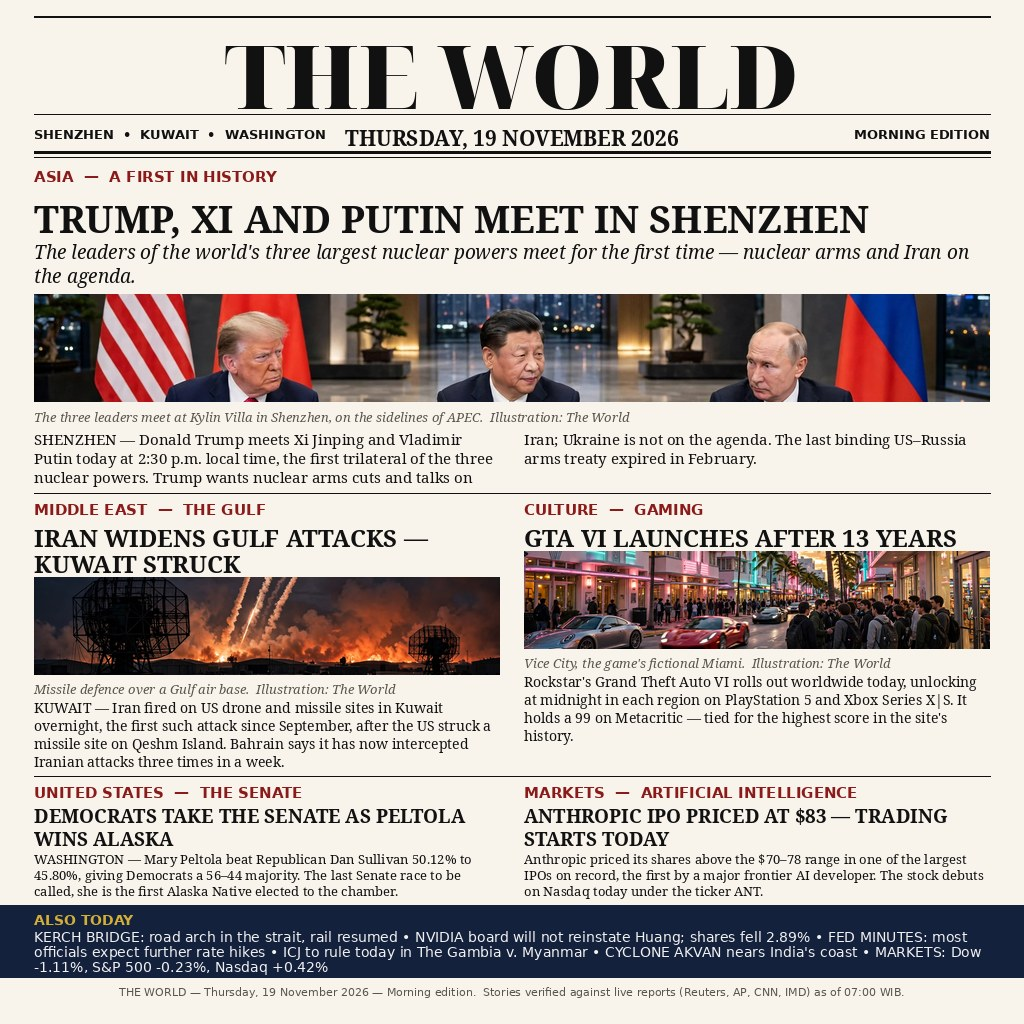
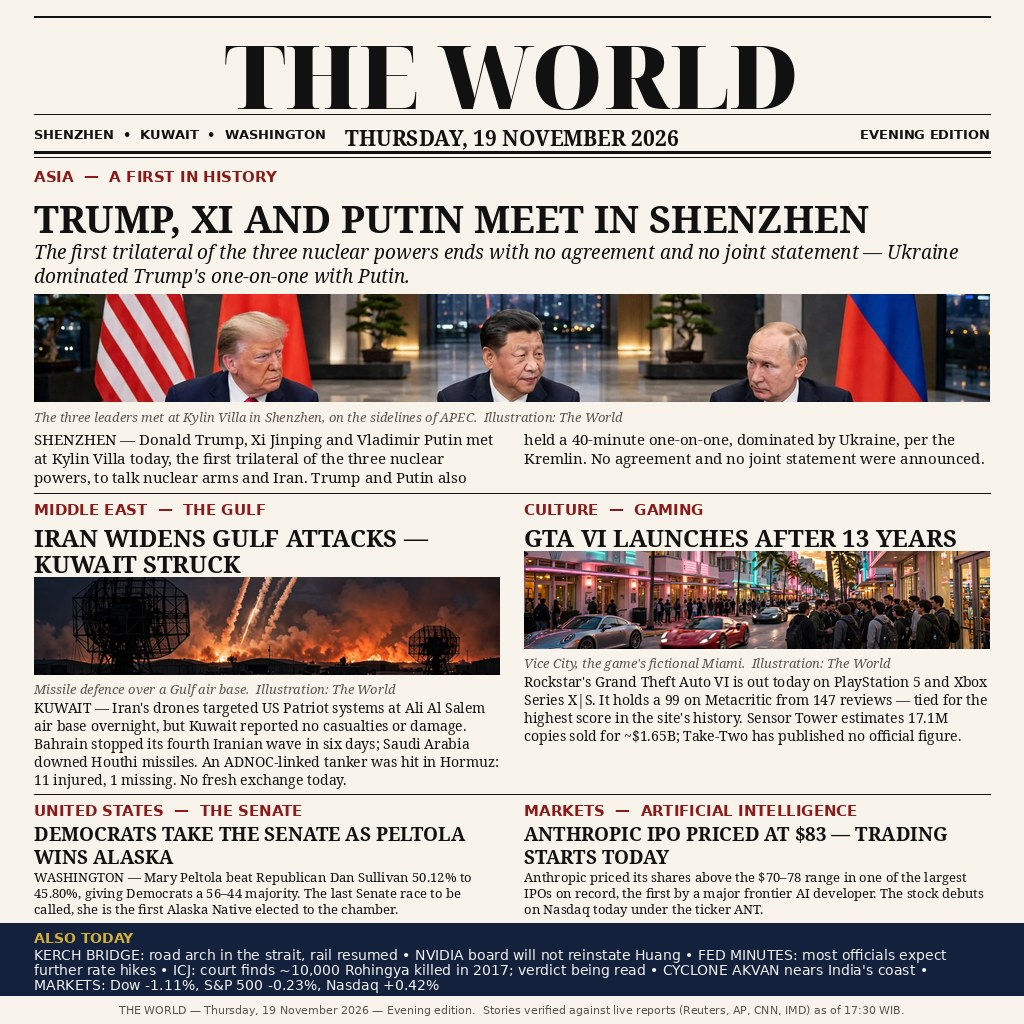
Evening edition: trilateral met, no deal; Gulf repelled; GTA VI out, 99 from 147 reviews; ICJ findings in ticker

diff --git a/main.ts b/main.ts
@@ -11,9 +11,10 @@
 // out garbled. No network is used at run time; everything the program needs
 // ships in this repo.
 //
-// MORNING EDITION: the image was built from news verified by 07:00 WIB on
-// 19 November 2026. A refresh pass with the full day's news is planned
-// before the deadline (21 November 2026, 07:00 WIB).
+// EVENING EDITION: the image was refreshed with the full day's news
+// verified by 17:30 WIB on 19 November 2026 (trilateral outcome: met, no
+// deal; Gulf overnight exchange; GTA VI launch day; ICJ findings so far —
+// the operative genocide finding was still being read at refresh time).
 
 import { mkdirSync, readFileSync, writeFileSync } from "node:fs";
 import { dirname, join } from "node:path";

diff --git a/README.md b/README.md
@@ -8,19 +8,20 @@ An entry for make.fun's "Sum up 19 November's world news in one image" bounty.
 
 The image is a newspaper front page. The masthead reads "THE WORLD" and the
 date line is Thursday, 19 November 2026. It sums up the day in five stories,
-each checked against live news sources on 19 November 2026 (morning edition —
-news as reported by 07:00 WIB; a refresh pass with the full day's news is
-planned before the deadline):
+each checked against live news sources on 19 November 2026 (evening edition —
+news as reported by 17:30 WIB):
 
-1. **Trump, Xi and Putin meet in Shenzhen.** The first-ever trilateral of the
-   leaders of the world's three largest nuclear powers, at 2:30 p.m. local
-   time at Kylin Villa on the sidelines of APEC. Nuclear arms cuts and Iran
-   are on the agenda; Ukraine is not. The New START treaty expired in
-   February 2026.
-2. **Iran widens Gulf attacks — Kuwait struck.** Iran fired on US drone and
-   missile sites in Kuwait overnight, the first such attack since September,
-   after the US struck a missile site on Qeshm Island. Bahrain says it has
-   now intercepted Iranian attacks three times in a week.
+1. **Trump, Xi and Putin meet in Shenzhen — no deal.** The first-ever
+   trilateral of the leaders of the world's three largest nuclear powers,
+   at Kylin Villa on the sidelines of APEC. Trump and Putin also held a
+   40-minute one-on-one, dominated by Ukraine. No agreement and no joint
+   statement were announced.
+2. **Iran widens Gulf attacks — Kuwait struck.** Iran's drones targeted US
+   Patriot systems at Ali Al Salem air base overnight, but Kuwait reported
+   no casualties or damage. Bahrain stopped its fourth Iranian wave in six
+   days; Saudi Arabia downed Houthi missiles. An ADNOC-linked tanker was
+   hit in the Strait of Hormuz: 11 injured, 1 missing. No fresh exchange
+   was reported today.
 3. **Democrats take the Senate as Peltola wins Alaska.** Mary Peltola beat
    Republican Dan Sullivan 50.12% to 45.80%, giving Democrats a 56–44
    majority. She is the first Alaska Native elected to the US Senate.
@@ -28,15 +29,17 @@ planned before the deadline):
    its shares above the $70–78 range in one of the largest IPOs on record,
    the first by a major frontier AI developer. The stock debuts on Nasdaq
    under the ticker ANT.
-5. **GTA VI launches after 13 years.** Rockstar's Grand Theft Auto VI rolls
-   out worldwide today on PlayStation 5 and Xbox Series X|S, holding a 99
-   on Metacritic — tied for the highest score in the site's history.
+5. **GTA VI launches after 13 years.** Rockstar's Grand Theft Auto VI is out
+   today on PlayStation 5 and Xbox Series X|S, holding a 99 on Metacritic
+   from 147 reviews — tied for the highest score in the site's history.
+   Sensor Tower estimates 17.1M copies sold for ~$1.65B; Take-Two has
+   published no official figure.
 
 Also today: Kerch Bridge road arch in the strait, rail resumed; Nvidia board
-will not reinstate Huang, shares fell 2.89%; Fed minutes show most officials
-expect further rate hikes; ICJ to rule today in The Gambia v. Myanmar;
-Cyclone Akvan nears India's coast; markets: Dow -1.11%, S&P 500 -0.23%,
-Nasdaq +0.42%.
+will not reinstate Huang; Fed minutes show most officials expect further
+rate hikes; ICJ: court finds ~10,000 Rohingya killed in 2017, genocide
+verdict being read; Cyclone Akvan nears India's coast; markets: Dow -1.11%,
+S&P 500 -0.23%, Nasdaq +0.42%.
 
 Every story was verified against live news sources on 19 November 2026 (see
 SOURCES.md in the competition workspace). All text is set in real fonts, so
